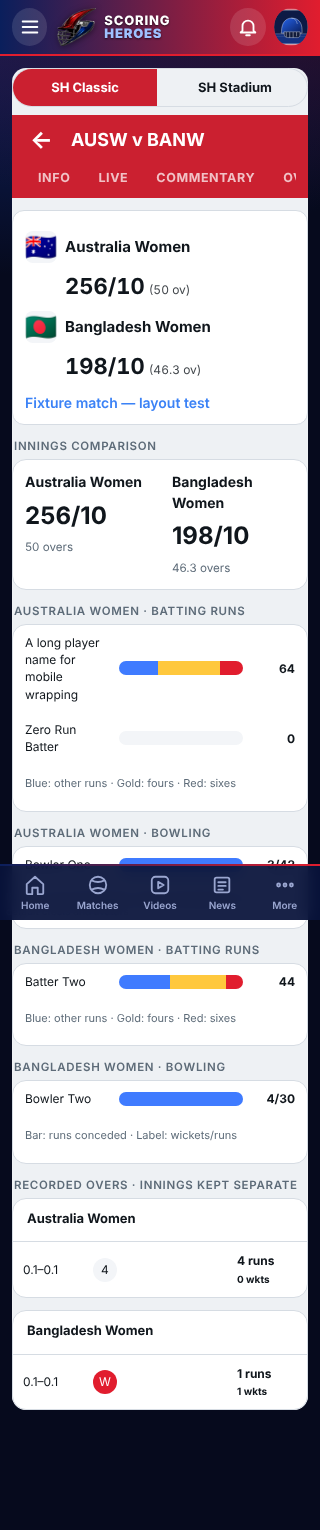
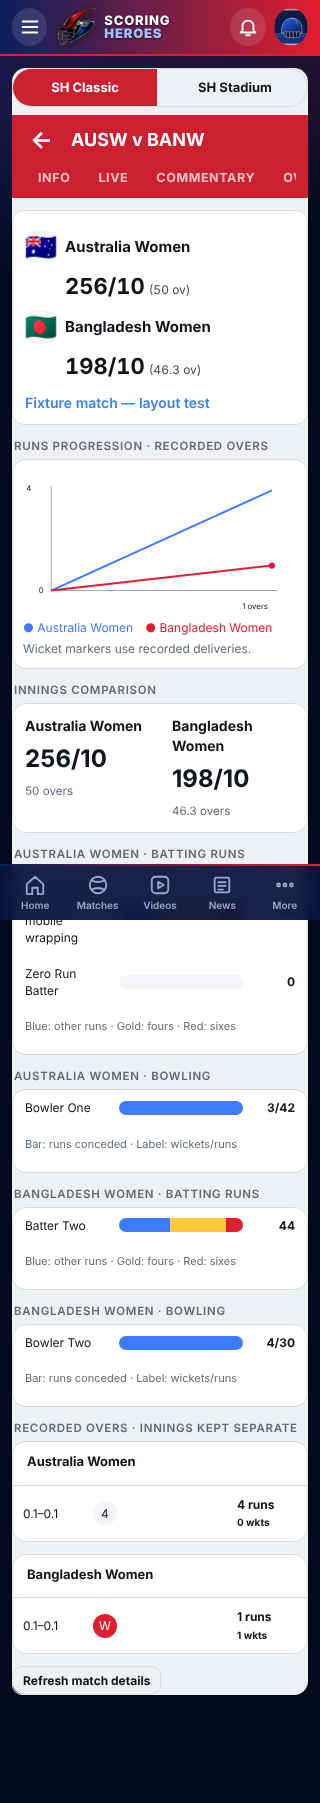
Own commentary engine: every ball is written from recorded facts (bowler, batter, runs, extras, dismissal) with running batter score, milestones, dot streak and bowler wickets worked out from the same balls; no invented shots; used for own matches and for provider/Cricsheet rows that carry no text; 
Claude-Session: https://claude.ai/code/session_01HkCoKwManx1f4X4815YDSv

Changed region(s): [[0.0, 0.0, 1.0, 0.9523], [0.75, 0.2458, 0.8438, 0.2765]]

diff --git a/app-index.html b/app-index.html
@@ -483,27 +483,50 @@ function overList(m,i){
     q.b.push({lab,cls:e.w?'w':(!e.x&&e.r===4)?'f':(!e.x&&e.r===6)?'s':pen?'x':''});
     if(!pen)lg++});
   return L.filter(Boolean)}
-function cText(e){
-  const b=sh(e.bl),a=sh(e.bt),v=(arr)=>arr[(e.r+hash(e.bt)+(e.pre?e.pre.used.length:0))%arr.length];
-  if(e.w){const t={Bowled:'BOWLED! Through the gate.',Caught:'CAUGHT! '+(e.fld?'Taken by '+e.fld+'.':'In the deep.'),LBW:'LBW! Plumb in front.',Stumped:'STUMPED! Beaten in flight.','Run out':'RUN OUT! '+(e.fld?'Direct hit from '+e.fld+'.':''),'Hit wicket':'HIT WICKET!','Obstructing the field':'OUT! Obstructing the field.','Hit the ball twice':'OUT! Hit the ball twice.'}[e.w]||e.w;
-    return `${b} to ${a}, OUT. ${t} ${sh(e.out)} walks back.`}
-  if(e.x==='wd')return `${b} to ${a}, WIDE${e.r?' +'+e.r:''}. Too far outside.`;
-  if(e.x==='nb')return `${b} to ${a}, NO BALL${e.r?', '+e.r+' off the bat':''}. Overstepped.`;
-  if(e.x==='b')return `${b} to ${a}, ${e.r} bye${e.r>1?'s':''}. Beats everyone.`;
-  if(e.x==='lb')return `${b} to ${a}, ${e.r} leg bye${e.r>1?'s':''}. Off the pads.`;
-  if(e.r===0)return `${b} to ${a}, no run. ${v(['Defended solidly.','Left alone outside off.','Beaten on the outside edge.'])}`;
-  if(e.r===1)return `${b} to ${a}, 1 run. ${v(['Worked off the hips.','Nudged into the gap.','Pushed to mid-off.'])}`;
-  if(e.r===2)return `${b} to ${a}, 2 runs. Placed into the gap and hard running.`;
-  if(e.r===3)return `${b} to ${a}, 3 runs. Chased down just short of the rope.`;
-  if(e.r===4)return `${b} to ${a}, FOUR! ${v(['Cracked through the covers.','Pulled away to the fence.','Driven on the up.','Glanced fine.'])}`;
-  if(e.r===6)return `${b} to ${a}, SIX! ${v(['Launched over long-on.','Heaved over midwicket.','Straight back over the bowler.'])}`;
-  return `${b} to ${a}, ${e.r} runs.`}
+/* ---- Scoring Heroes commentary engine: writes each ball from what was recorded (bowler, batter, runs, extras, dismissal) and from running totals worked out from those same balls. It never invents the shot, the direction or the fielding. ---- */
+const ENG_CRED=['bowled','lbw','caught','caught and bowled','stumped','hit wicket'];
+const engPl=(k,w)=>k+' '+w+(k===1?'':'s');
+function engNew(){return {bs:{},bw:{},tot:0,wk:0,dots:0}}
+function engDism(k,bowl,fld){
+  if(k==='bowled')return 'b '+bowl;
+  if(k==='lbw')return 'lbw b '+bowl;
+  if(k==='caught and bowled')return 'c & b '+bowl;
+  if(k==='caught')return fld?(fld===bowl?'c & b '+bowl:'c '+fld+' b '+bowl):'caught b '+bowl;
+  if(k==='stumped')return fld?'st '+fld+' b '+bowl:'stumped b '+bowl;
+  if(k==='run out')return 'run out'+(fld?' ('+fld+')':'');
+  if(k==='hit wicket')return 'hit wicket b '+bowl;
+  return k||'out'}
+/* n = {bat,bowl,brun (runs off the bat),tot (all runs on the ball),x:''|'wd'|'nb'|'b'|'lb',wk:null|{out,kind,fld}}; st = running state from engNew(), or null for a plain line */
+function engText(n,st){
+  const head=n.bowl+' to '+n.bat;let B=null,Bw=null,pre=0;
+  if(st){B=st.bs[n.bat]=st.bs[n.bat]||{r:0,b:0};Bw=st.bw[n.bowl]=st.bw[n.bowl]||{w:0};pre=B.r;B.r+=n.brun;if(n.x!=='wd')B.b++;st.tot+=n.tot}
+  if(n.wk){
+    const k=String(n.wk.kind||'').toLowerCase().replace(/\s+/g,' '),cred=ENG_CRED.includes(k);
+    if(st){st.wk++;st.dots=0;if(cred)Bw.w++}
+    const O=st?st.bs[n.wk.out]:null;
+    return `${head}, OUT! ${n.wk.out} ${engDism(k,n.bowl,n.wk.fld)}.`+(O&&O.b?` ${n.wk.out} made ${O.r} (${engPl(O.b,'ball')}).`:'')+(st?` Score ${st.tot}/${st.wk}.`:'')+(st&&cred?` ${n.bowl} has ${engPl(Bw.w,'wicket')}.`:'')}
+  let t;
+  if(n.x==='wd')t=`${head}, wide${n.tot>1?', '+engPl(n.tot,'run')+' in all':''}.`;
+  else if(n.x==='nb')t=`${head}, no ball${n.brun?', '+engPl(n.brun,'run')+' off the bat':''}.`;
+  else if(n.x==='b')t=`${head}, ${engPl(n.tot,'bye')}.`;
+  else if(n.x==='lb')t=`${head}, ${engPl(n.tot,'leg bye')}.`;
+  else if(n.tot===0)t=`${head}, no run.`;
+  else if(n.brun===4)t=`${head}, FOUR.`;
+  else if(n.brun===6)t=`${head}, SIX.`;
+  else t=`${head}, ${engPl(n.tot,'run')}.`;
+  if(st){
+    if(n.x!=='wd'&&n.x!=='b'&&n.x!=='lb'&&n.brun>0){t+=` ${n.bat} ${B.r} (${engPl(B.b,'ball')}).`;
+      for(const th of [50,100,150,200,250,300])if(pre<th&&B.r>=th)t+=` ${n.bat} reaches ${th===50?'a fifty':th===100?'a hundred':th}!`}
+    if(n.tot===0){st.dots++;if(st.dots>=3)t+=` ${st.dots} dot balls in a row.`}else st.dots=0}
+  return t}
+function cNorm(e){return {bat:sh(e.bt),bowl:sh(e.bl),brun:(!e.x||e.x==='nb')?e.r:0,tot:e.r+(e.x==='wd'?1:e.x==='nb'?NBP:0),x:e.x||'',wk:e.w?{out:sh(e.out),kind:e.w,fld:e.fld}:null}}
+function cText(e){return engText(cNorm(e),null)}
 function commentary(m,i){
-  const inn=m.innings[i];if(!inn)return[];const out=[];let lg=0,rr=0,wk=0;
+  const inn=m.innings[i];if(!inn)return[];const out=[],est=engNew();let lg=0,rr=0,wk=0;
   inn.ev.forEach((e,idx)=>{
     const legal=e.x!=='wd'&&e.x!=='nb',pen=legal?0:(e.x==='nb'?NBP:1);rr+=e.r+pen;if(e.w)wk++;
     const lab=Math.floor(lg/BPO)+'.'+((lg%BPO)+(legal?1:0));
-    out.push({t:'b',ov:lab,txt:cText(e),r:e.w?'W':e.r+pen,cls:e.w?'w':e.r===4&&!e.x?'f':e.r===6&&!e.x?'s':''});
+    out.push({t:'b',ov:lab,txt:engText(cNorm(e),est),r:e.w?'W':e.r+pen,cls:e.w?'w':e.r===4&&!e.x?'f':e.r===6&&!e.x?'s':''});
     if(legal)lg++;
     if(legal&&lg%BPO===0){const q=calc({...m,innings:m.innings.map((x,j)=>j===i?{...x,ev:inn.ev.slice(0,idx+1)}:x)},i);
       const ov=q.pov[lg/BPO-1];out.push({t:'o',txt:`End of over ${lg/BPO}: ${ov.runs} run${ov.runs===1?'':'s'}${ov.wk?', '+ov.wk+' wkt':''}. ${T(inn.bat).short} ${q.runs}/${q.wk}.`})}});
@@ -4508,8 +4531,9 @@ function cbpBbb(W){if(W.bb==null&&!W.bbErr)return '<div class="mu" style="paddin
  if(W.bbErr)return `<div class="cbp-cd cbp-note"><b>No ball-by-ball for this match</b>${esc(W.bbErr)}. The provider gives ball-by-ball only for some matches and plans. Scores and the scorecard above are still live.</div>`;
  const L=cbpBbbList(W.bb);if(!L.length)return '<div class="cbp-cd cbp-note"><b>Commentary not available</b>The provider returned no ball-by-ball for this match yet.</div>';
  return `<div class="cbp-cd">${L.slice(0,150).map(x=>`<div class="cm-i"><span class="cm-o">${esc(x.ov)}</span>${x.run!==''?`<span class="cm-r ${x.cls}">${esc(String(x.run))}</span>`:''}<span>${esc(x.txt)}</span></div>`).join('')}</div>`}
-function cbpBbbList(d){const arr=Array.isArray(d)?d:Array.isArray(d&&d.bbb)?d.bbb:Array.isArray(d&&d.balls)?d.balls:[];const nm=x=>x&&typeof x==='object'?(x.name||''):String(x||'');
- return arr.map(it=>{if(!it||typeof it!=='object')return null;const ov=it.over!=null&&it.ball!=null?it.over+'.'+it.ball:(it.n!=null?String(it.n):(it.ball_number||it.overs||'')),run=it.runs!=null?it.runs:(it.run!=null?it.run:''),wk=!!(it.wicket||it.isWicket||it.out||/wicket|out/i.test(String(it.event||it.type||''))),txt=String(it.commentary||it.text||it.comment||it.desc||it.description||(nm(it.bowler)&&nm(it.batsman)?nm(it.bowler)+' to '+nm(it.batsman)+(run!==''?', '+run+(+run===1?' run':' runs'):''):'')||'').trim();
+function cbpBbbList(d){const ES={};const arr=Array.isArray(d)?d:Array.isArray(d&&d.bbb)?d.bbb:Array.isArray(d&&d.balls)?d.balls:[];const nm=x=>x&&typeof x==='object'?(x.name||''):String(x||'');
+ return arr.map(it=>{if(!it||typeof it!=='object')return null;const ov=it.over!=null&&it.ball!=null?it.over+'.'+it.ball:(it.n!=null?String(it.n):(it.ball_number||it.overs||'')),run=it.runs!=null?it.runs:(it.run!=null?it.run:''),wk=!!(it.wicket||it.isWicket||it.out||/wicket|out/i.test(String(it.event||it.type||'')));let txt=String(it.commentary||it.text||it.comment||it.desc||it.description||'').trim();
+  if(!txt&&nm(it.bowler)&&nm(it.batsman)&&run!==''){const k=String(it.inning==null?'':it.inning),stt=ES[k]||(ES[k]=engNew()),tot=+run||0,x=it.wide?'wd':it.noball?'nb':(it.xtype||'');txt=engText({bat:nm(it.batsman),bowl:nm(it.bowler),brun:it.bruns!=null?+it.bruns:(x?0:tot),tot,x,wk:wk?{out:it.out||nm(it.batsman),kind:it.kind||'out',fld:it.fielder||''}:null},stt)}
   if(!txt&&ov==='')return null;const n=+run;return{inning:it.inning??it.innings??it.scoreboard,team:it.team,ov:String(ov),run:wk?'W':run,cls:wk?'w':n===4?'f':n===6?'s':'',txt,r:isFinite(n)?n:0,o:it.over}}).filter(Boolean).reverse()}
 function cbpGraphs(W){const L=W.sc&&W.sc.scorecard||[];if(!L.length)return W.err?`<div class="cbp-cd cbp-note">${esc(W.err)}</div>`:'<div class="mu" style="padding:14px">Loading...</div>';
  const key=a=>`<div class="gr-key">${a.map(([c,l])=>`<span><i class="${c}" style="background:${({o:'#3f7bff',f:'#ffc83d',s:'#e11d2e',w:'#e11d2e',r:'#3f7bff'})[c]}"></i>${l}</span>`).join('')}</div>`;
